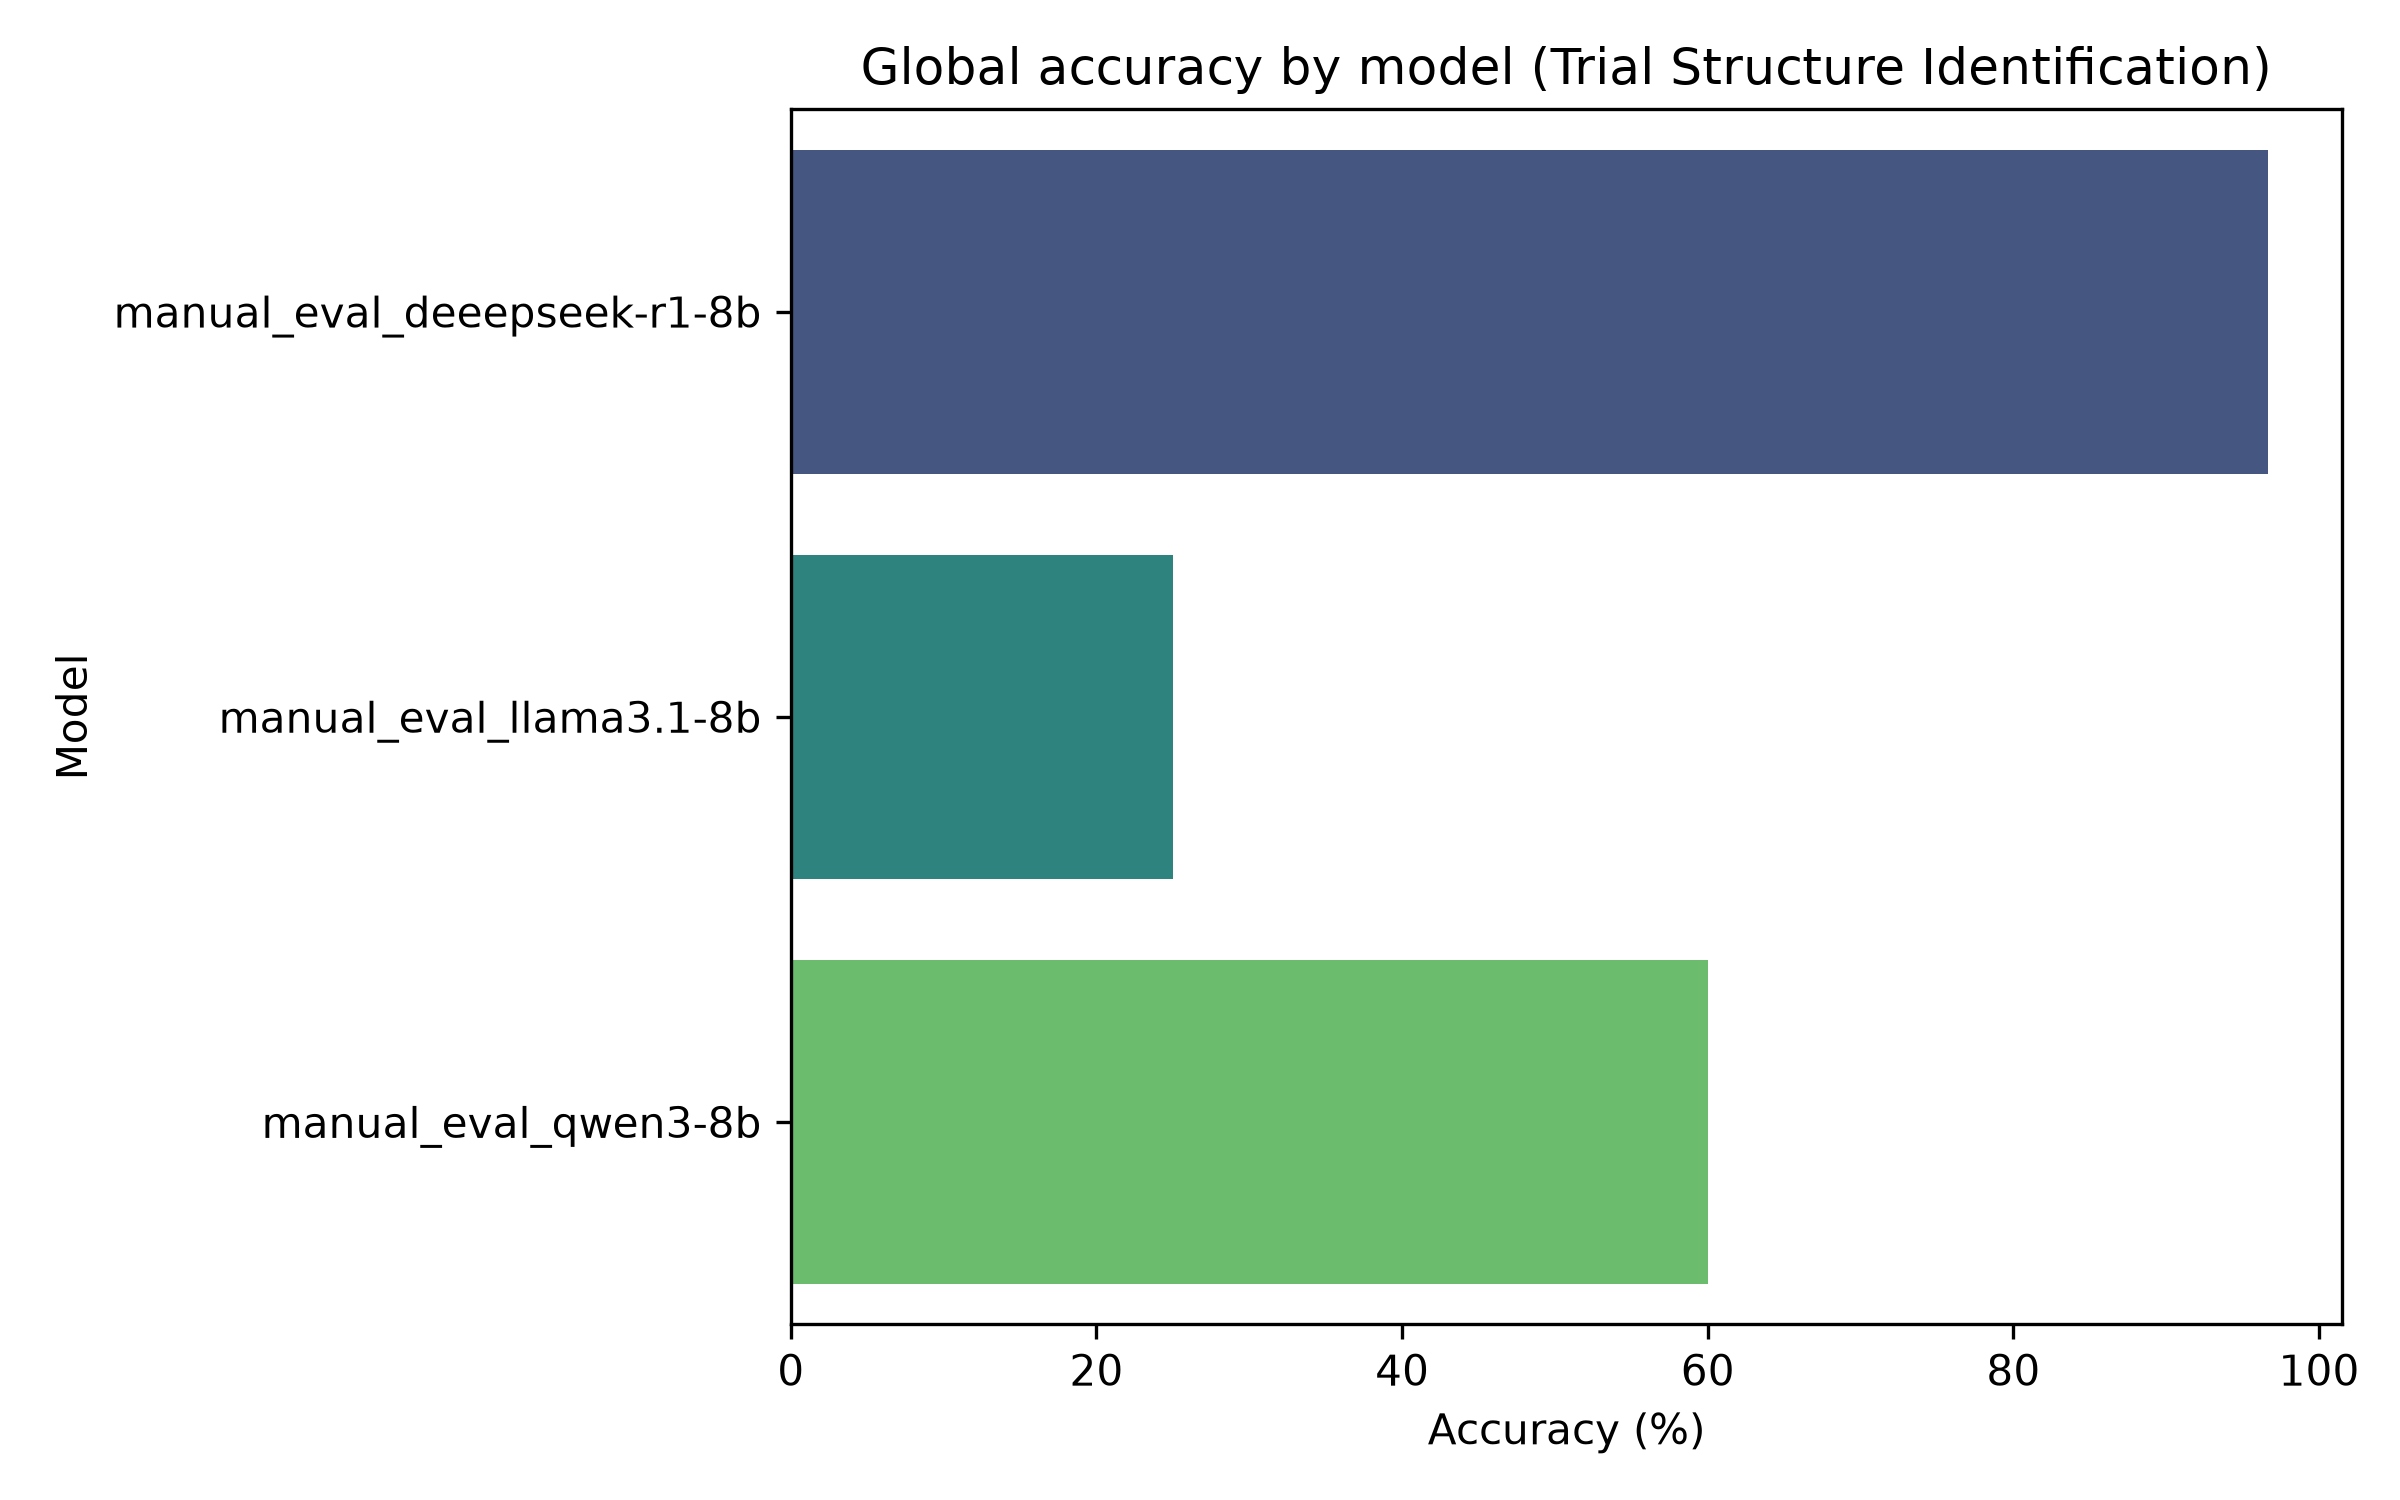
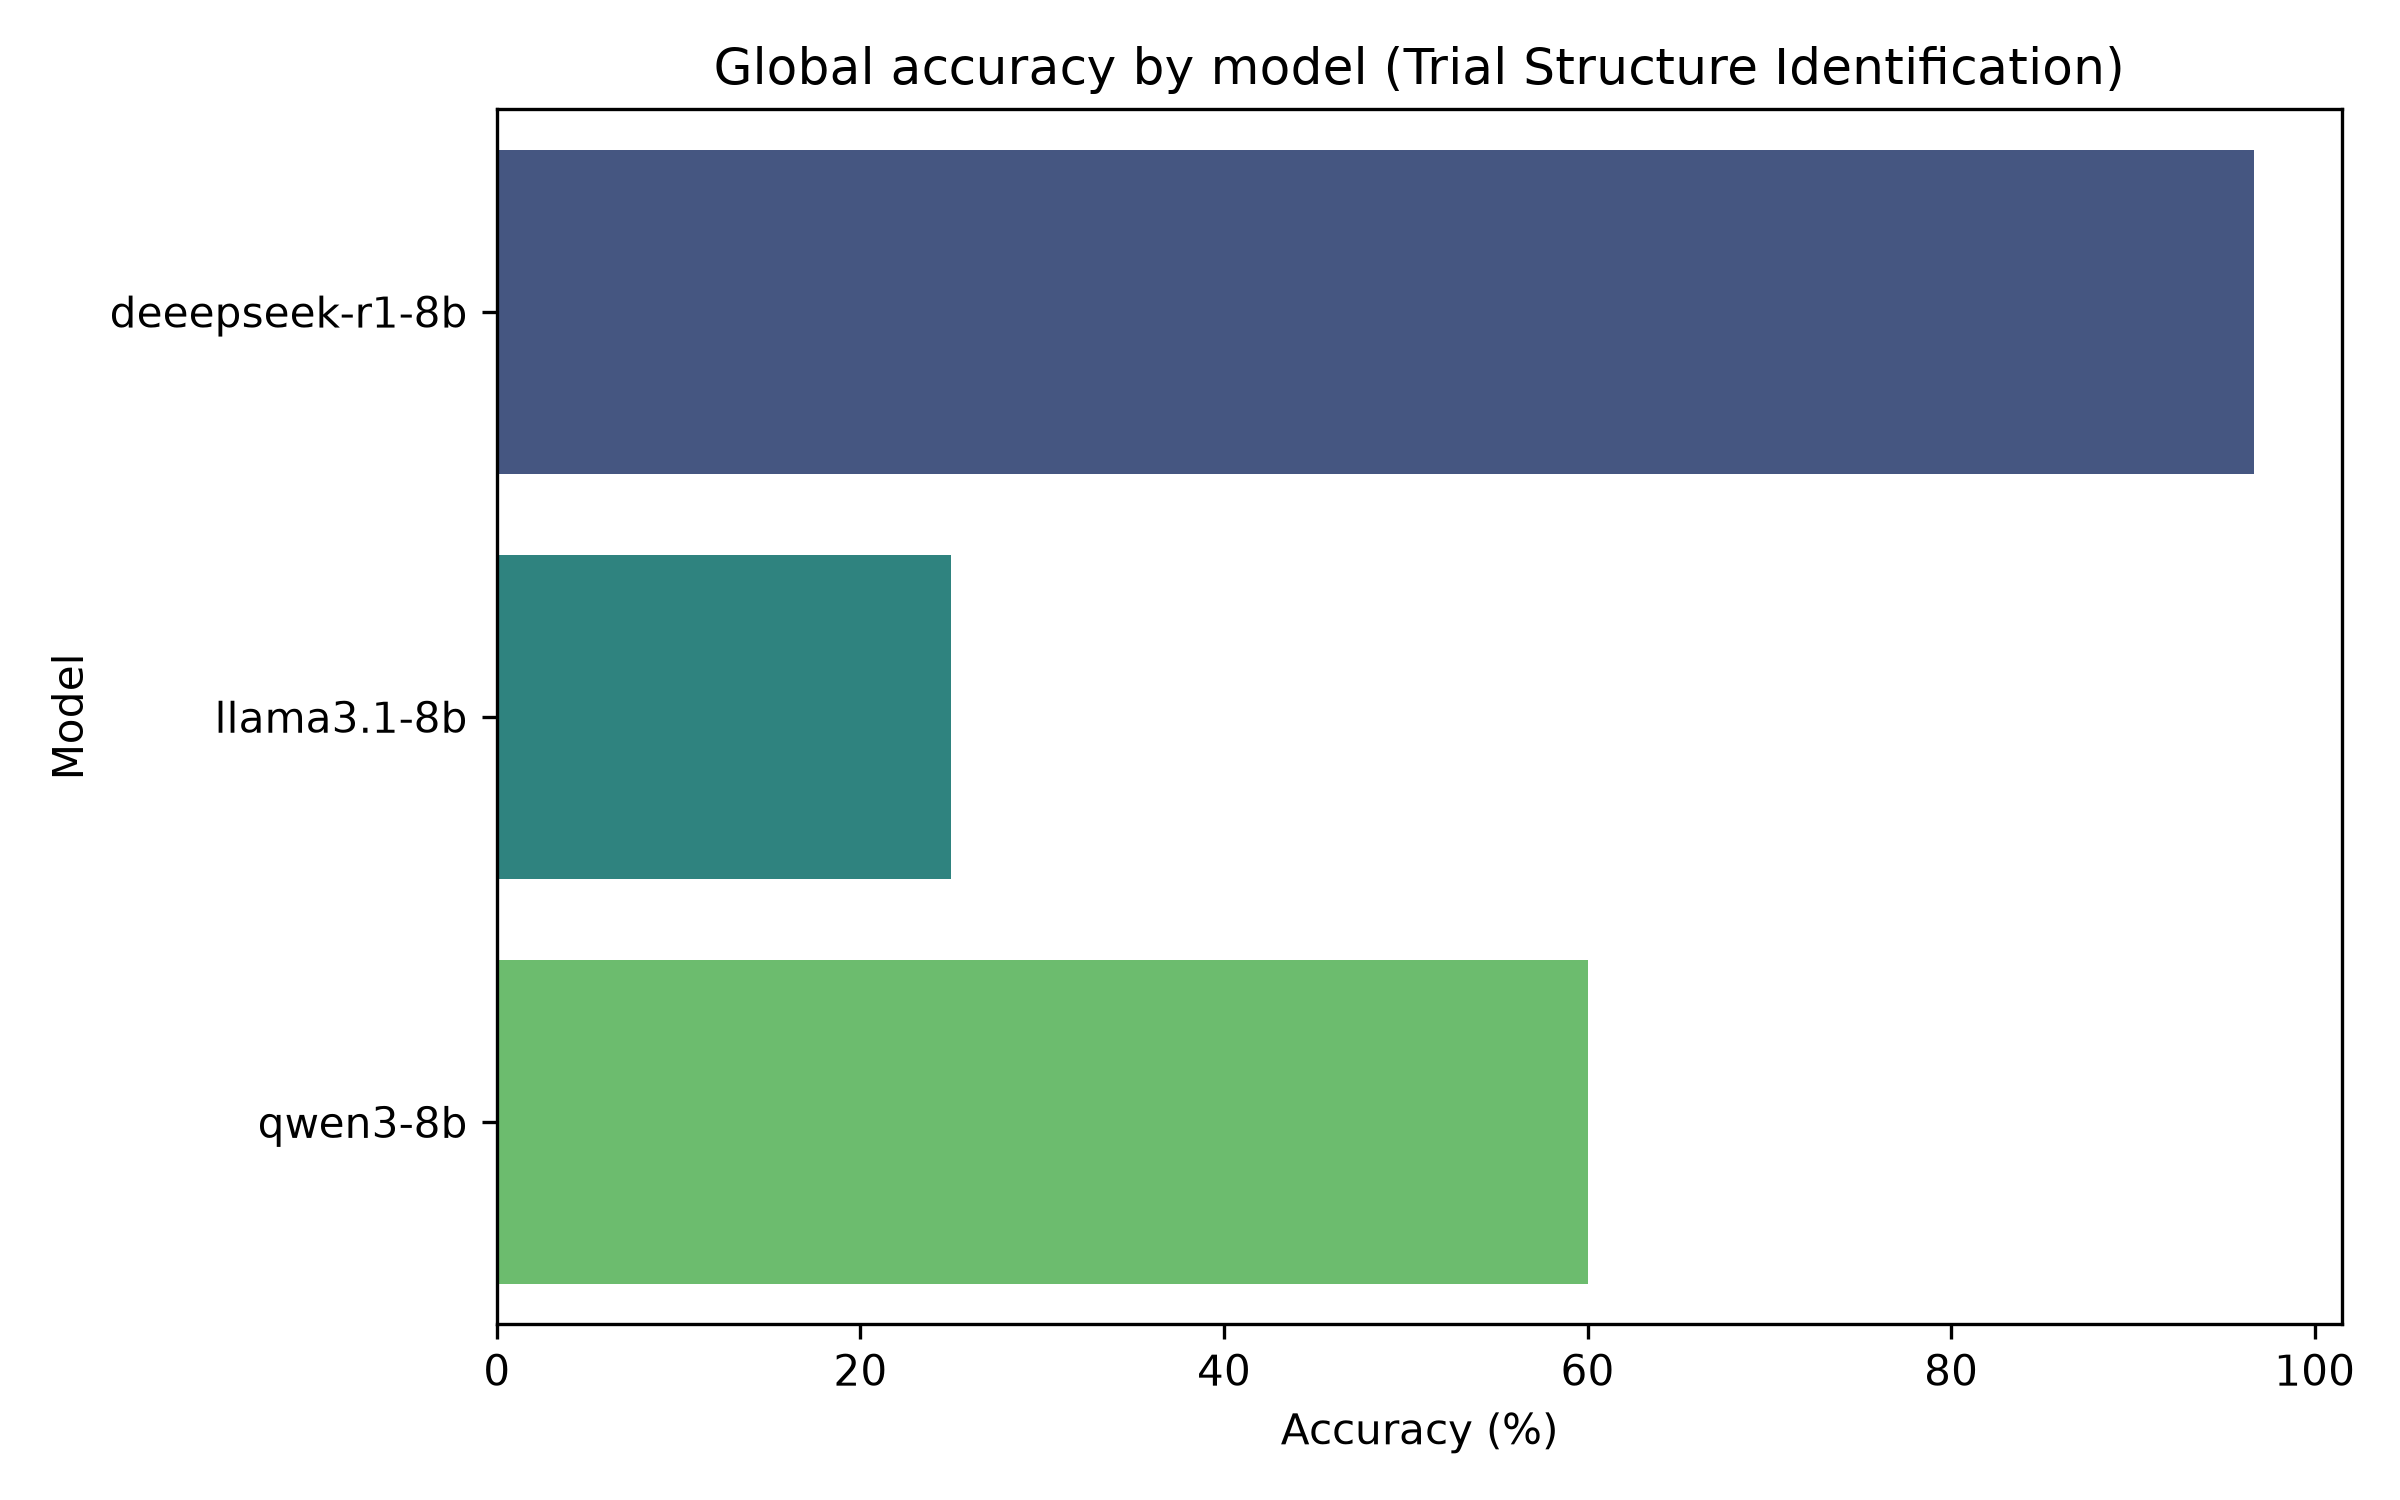
Added new images to include on the scientific article and as a consequence new files were added and old scripts of aggregation altered, and the article is on final accomodations including citations to images, tables and references, finally hours of effort were updated

diff --git a/Scritps/matching_patients_eval-aggregate.py b/Scritps/matching_patients_eval-aggregate.py
@@ -1,6 +1,10 @@
 import json
 import glob
 import os
+import pandas as pd
+import seaborn as sns
+import matplotlib.pyplot as plt
+
 
 SAVE_DIR = "./manual-evaluations/patient-matching/"
 
@@ -85,3 +89,80 @@ with open(save_path, "w", encoding="utf-8") as f:
     json.dump(models, f, indent=4, ensure_ascii=False)
 
 print(f"\nSaved aggregated results by model to {save_path}")
+
+PLOTS_DIR = "./manual-evaluations/patient-matching/plots"
+os.makedirs(PLOTS_DIR, exist_ok=True)
+
+AGG_PATH = os.path.join(SAVE_DIR, "AGGREGATED_RESULTS_BY_MODEL.json")
+
+with open(AGG_PATH, "r", encoding="utf-8") as f:
+    aggregated = json.load(f)
+
+rows = []
+for model, data in aggregated.items():
+    for p in data["per_patient"]:
+        rows.append({
+            "model": model,
+            "patient": p["patient"],
+            "accuracy": p["human_accuracy"]
+        })
+
+df = pd.DataFrame(rows)
+
+pivot = df.pivot(index="patient", columns="model", values="accuracy")
+
+plt.figure(figsize=(12, 8))
+sns.heatmap(pivot, annot=True, cmap="viridis", fmt=".1f")
+plt.title("Patient–Trial Matching Accuracy per Patient and Model")
+plt.xlabel("Model")
+plt.ylabel("Patient")
+plt.tight_layout()
+plt.savefig(f"{PLOTS_DIR}/patient_matching_heatmap.png", dpi=300)
+plt.close()
+
+print("Saved heatmap to:", f"{PLOTS_DIR}/patient_matching_heatmap.png")
+
+global_rows = []
+for model, data in aggregated.items():
+    global_rows.append({
+        "model": model,
+        "accuracy": data["global_accuracy"],
+        "partial_score": data["global_partial_score"]
+    })
+
+df_global = pd.DataFrame(global_rows)
+
+plt.figure(figsize=(8, 5))
+sns.barplot(data=df_global, x="model", y="accuracy", palette="crest")
+plt.title("Global Accuracy by Model – Patient–Trial Matching")
+plt.ylabel("Accuracy (%)")
+plt.xlabel("Model")
+plt.ylim(0, 100)
+plt.tight_layout()
+plt.savefig(f"{PLOTS_DIR}/patient_matching_global_accuracy.png", dpi=300)
+plt.close()
+
+print("Saved global accuracy bar chart to:", f"{PLOTS_DIR}/patient_matching_global_accuracy.png")
+
+dist_rows = []
+for model, data in aggregated.items():
+    dist_rows.append({
+        "model": model,
+        "correct": data["correct"],
+        "wrong": data["wrong"]
+    })
+
+df_dist = pd.DataFrame(dist_rows)
+df_dist_long = df_dist.melt(id_vars="model", value_vars=["correct", "wrong"],
+                            var_name="type", value_name="count")
+
+plt.figure(figsize=(8, 5))
+sns.barplot(data=df_dist_long, x="model", y="count", hue="type", palette="Set2")
+plt.title("Correct vs Wrong Assignments per Model")
+plt.ylabel("Count")
+plt.xlabel("Model")
+plt.tight_layout()
+plt.savefig(f"{PLOTS_DIR}/patient_matching_correct_wrong.png", dpi=300)
+plt.close()
+
+print("Saved correct/wrong distribution chart to:", f"{PLOTS_DIR}/patient_matching_correct_wrong.png")

diff --git a/Scritps/parameter_extraction_eval-helper.py b/Scritps/parameter_extraction_eval-helper.py
@@ -4,6 +4,7 @@ import os
 import matplotlib.pyplot as plt
 import seaborn as sns
 import pandas as pd
+import numpy as np
 
 AGGREGATED_PATH = "./manual-evaluations/parameter-extraction/AGGREGATED_RESULTS_BY_MODEL.json"
 MANUAL_EVAL_DIR = "./manual-evaluations/parameter-extraction/"
@@ -173,3 +174,30 @@ plt.tight_layout()
 
 plt.savefig(f"{PLOTS_SAVE_DIR}/correct_partial_wrong_by_field_and_model_no_control.png", dpi=300)
 plt.show()
+
+with open(AGGREGATED_PATH, "r", encoding="utf-8") as f:
+    aggregated = json.load(f)
+
+model_names = list(aggregated.keys())
+accuracies = [aggregated[m]["global_accuracy"] for m in model_names]
+partial_scores = [aggregated[m]["global_partial_score"] for m in model_names]
+
+x = np.arange(len(model_names))
+width = 0.35
+
+plt.figure(figsize=(10, 6))
+plt.bar(x - width/2, accuracies, width, label="Accuracy (%)", color="#1f77b4")
+plt.bar(x + width/2, partial_scores, width, label="Partial-aware score (%)", color="#9467bd")
+
+plt.xticks(x, model_names, rotation=20)
+plt.ylabel("Score (%)")
+plt.ylim(0, 105)
+plt.title("Parameter Extraction – Global Accuracy vs Partial-aware Score")
+plt.legend()
+plt.tight_layout()
+
+# Save plot
+plt.savefig(f"{PLOTS_SAVE_DIR}/parameter_extraction_accuracy_vs_partial_score.png", dpi=300)
+plt.close()
+
+print(f"Saved accuracy/partial-aware plot to {PLOTS_SAVE_DIR}")

diff --git a/Scritps/trial_structure_eval-aggregate.py b/Scritps/trial_structure_eval-aggregate.py
@@ -19,6 +19,7 @@ for fpath in eval_files:
 
     core = (
         fname.replace("structure_eval_", "")
+             .replace("manual_eval_", "")   # REMOVE PREFIX
              .replace(".json", "")
     )
 
@@ -110,7 +111,6 @@ for model, agg in models.items():
     print(f"Wrong: {wrong}")
     print(f"Global accuracy: {global_accuracy:.2f}%")
     print(f"Global partial-aware score: {global_partial_score:.2f}%")
-
 
 save_path = os.path.join(SAVE_DIR, "AGGREGATED_RESULTS_BY_MODEL.json")
 
